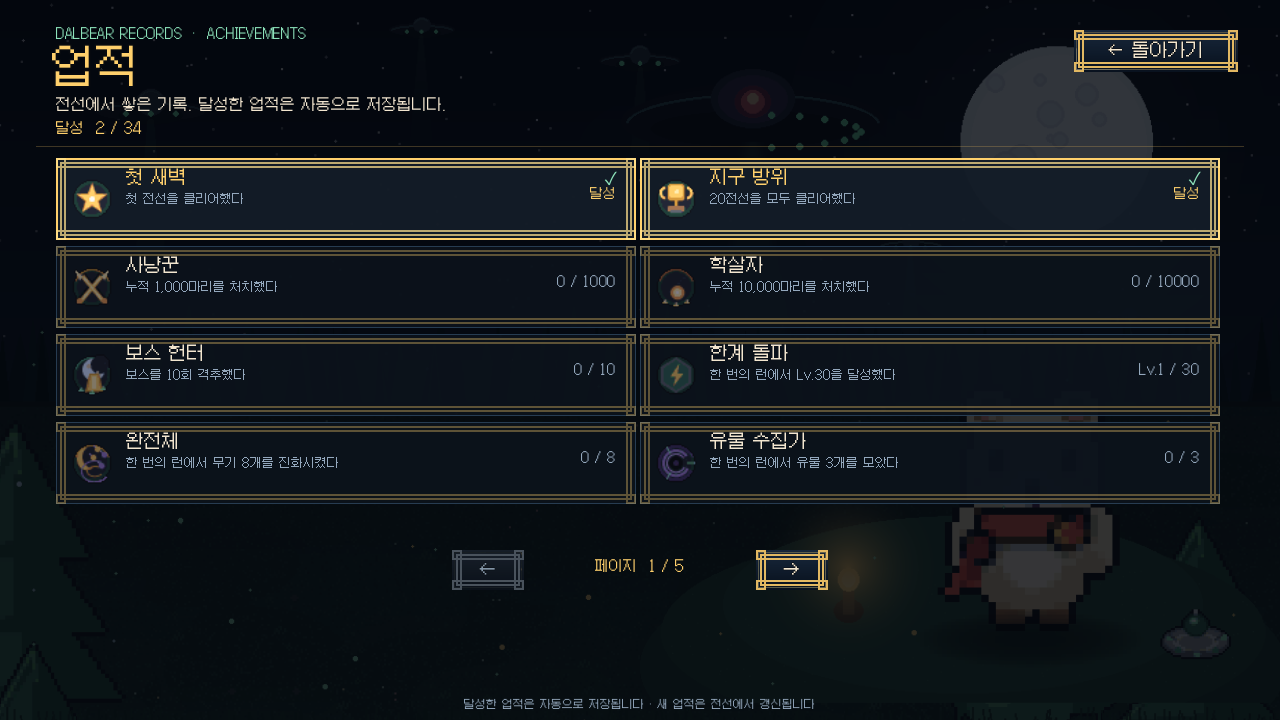
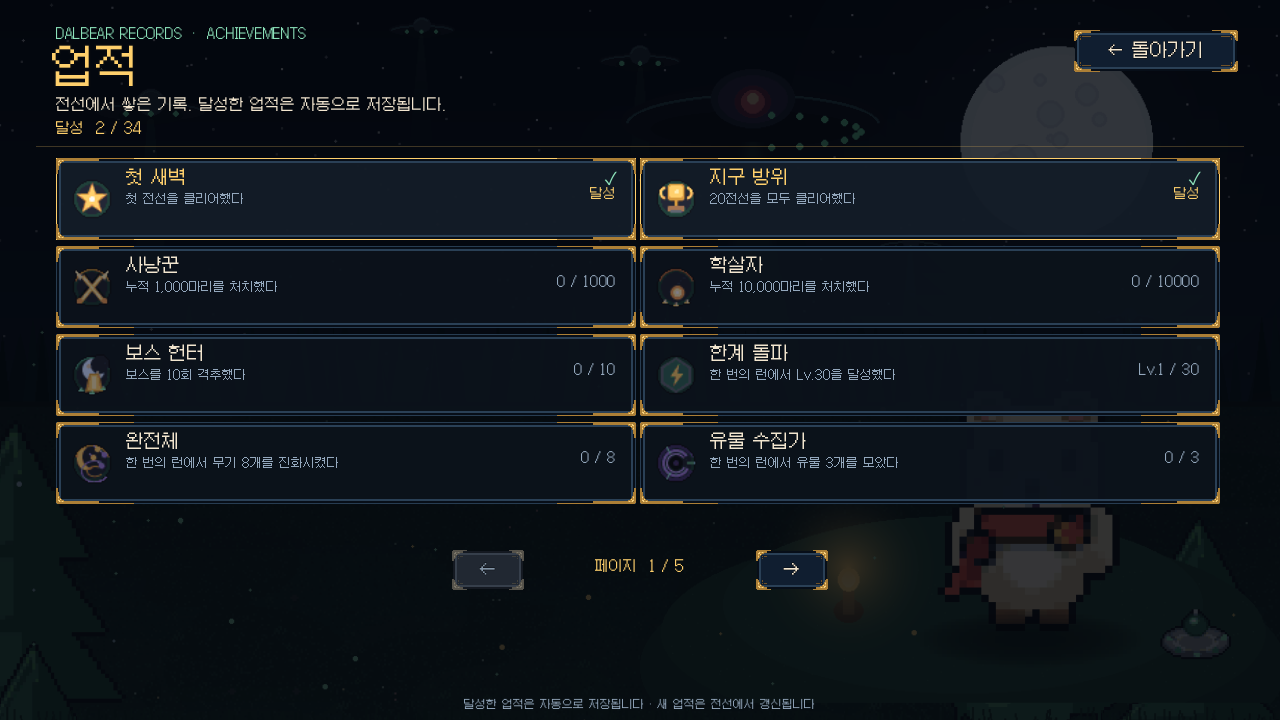
feat: replace UI with Kenney Pixel Adventure frames (v1.20.1)
- Replace the thin fantasy line frames with chunky CC0 pixel panels, buttons, and alert borders from Kenney UI Pack - Pixel Adventure.

- Remap the pack to the game's navy and gold palette; add hover, pressed, disabled, focus, tab, panel, and warning styles.

- Remove the previous Fantasy UI Borders assets and update credits/notices.

- Bump to 1.20.1 / versionCode 35.

diff --git a/README.md b/README.md
@@ -621,7 +621,7 @@ DalbearSurvival/
 ├─ assets/
 │  ├─ art/                       # 캐릭터/친구 5종, 외계인, 환경, UI, 타이틀 원화
 │  ├─ particles/                 # Kenney CC0 파티클 (라이선스 포함)
-│  ├─ ui/fantasy/                # Kenney Fantasy UI Borders CC0 금장 프레임
+│  ├─ ui/pixel_adventure/                # Kenney Pixel Adventure CC0 픽셀 UI
 │  ├─ audio/                     # 직접 생성한 SFX + 64초 루프 BGM
 │  └─ fonts/                     # Galmuri11 (OFL)
 ├─ screenshots/
@@ -637,7 +637,7 @@ DalbearSurvival/
 | 사용처 | 에셋 | 라이선스 |
 |---|---|---|
 | VFX 파티클 | [Kenney Particle Pack](https://kenney.nl/assets/particle-pack) | **CC0 1.0** |
-| UI 금장 프레임 | [Kenney Fantasy UI Borders](https://kenney.nl/assets/fantasy-ui-borders) | **CC0 1.0** |
+| UI 픽셀 프레임 | [Kenney UI Pack - Pixel Adventure](https://kenney.nl/assets/ui-pack-pixel-adventure) | **CC0 1.0** |
 | 한국어 픽셀 폰트 | [Galmuri11](https://github.com/quiple/galmuri) by Lee Minseo | **SIL OFL 1.1** |
 | 2D 조명 | [Lit - 2D Lighting Engine](https://github.com/shawndeprey/lit) by Fading Lantern Games | **MIT** |
 | 캐릭터/외계인/군체/모선/UI/타이틀 아트 | 이 프로젝트를 위해 직접 생성 | 원작 |

diff --git a/THIRD_PARTY_NOTICES.md b/THIRD_PARTY_NOTICES.md
@@ -59,15 +59,15 @@ third-party game or franchise.
 - Generated music and SFX: `assets/audio/`
 - Generation tools: `tools/` (Python/Pillow/NumPy)
 
-## 6. Kenney Fantasy UI Borders
+## 6. Kenney UI Pack - Pixel Adventure
 
 - Author: Kenney (Kenney.nl)
-- Source: https://kenney.nl/assets/fantasy-ui-borders
+- Source: https://kenney.nl/assets/ui-pack-pixel-adventure
 - License: Creative Commons CC0 1.0 Universal
-- Local license: `assets/ui/fantasy/LICENSE.txt`
-- Use: selected button and panel frame textures in `assets/ui/fantasy/`
-- Modifications: frames tinted, composited with the game's dark palette, and
-  converted to 9-slice UI styles.
+- Local license: `assets/ui/pixel_adventure/LICENSE.txt`
+- Use: selected button and panel border tiles in `assets/ui/pixel_adventure/`
+- Modifications: colors remapped to the game's navy/gold palette and converted
+  to 9-slice UI styles.
 
 CC0 1.0 waives copyright and related rights. Attribution is not required and is
 included here as a courtesy.
